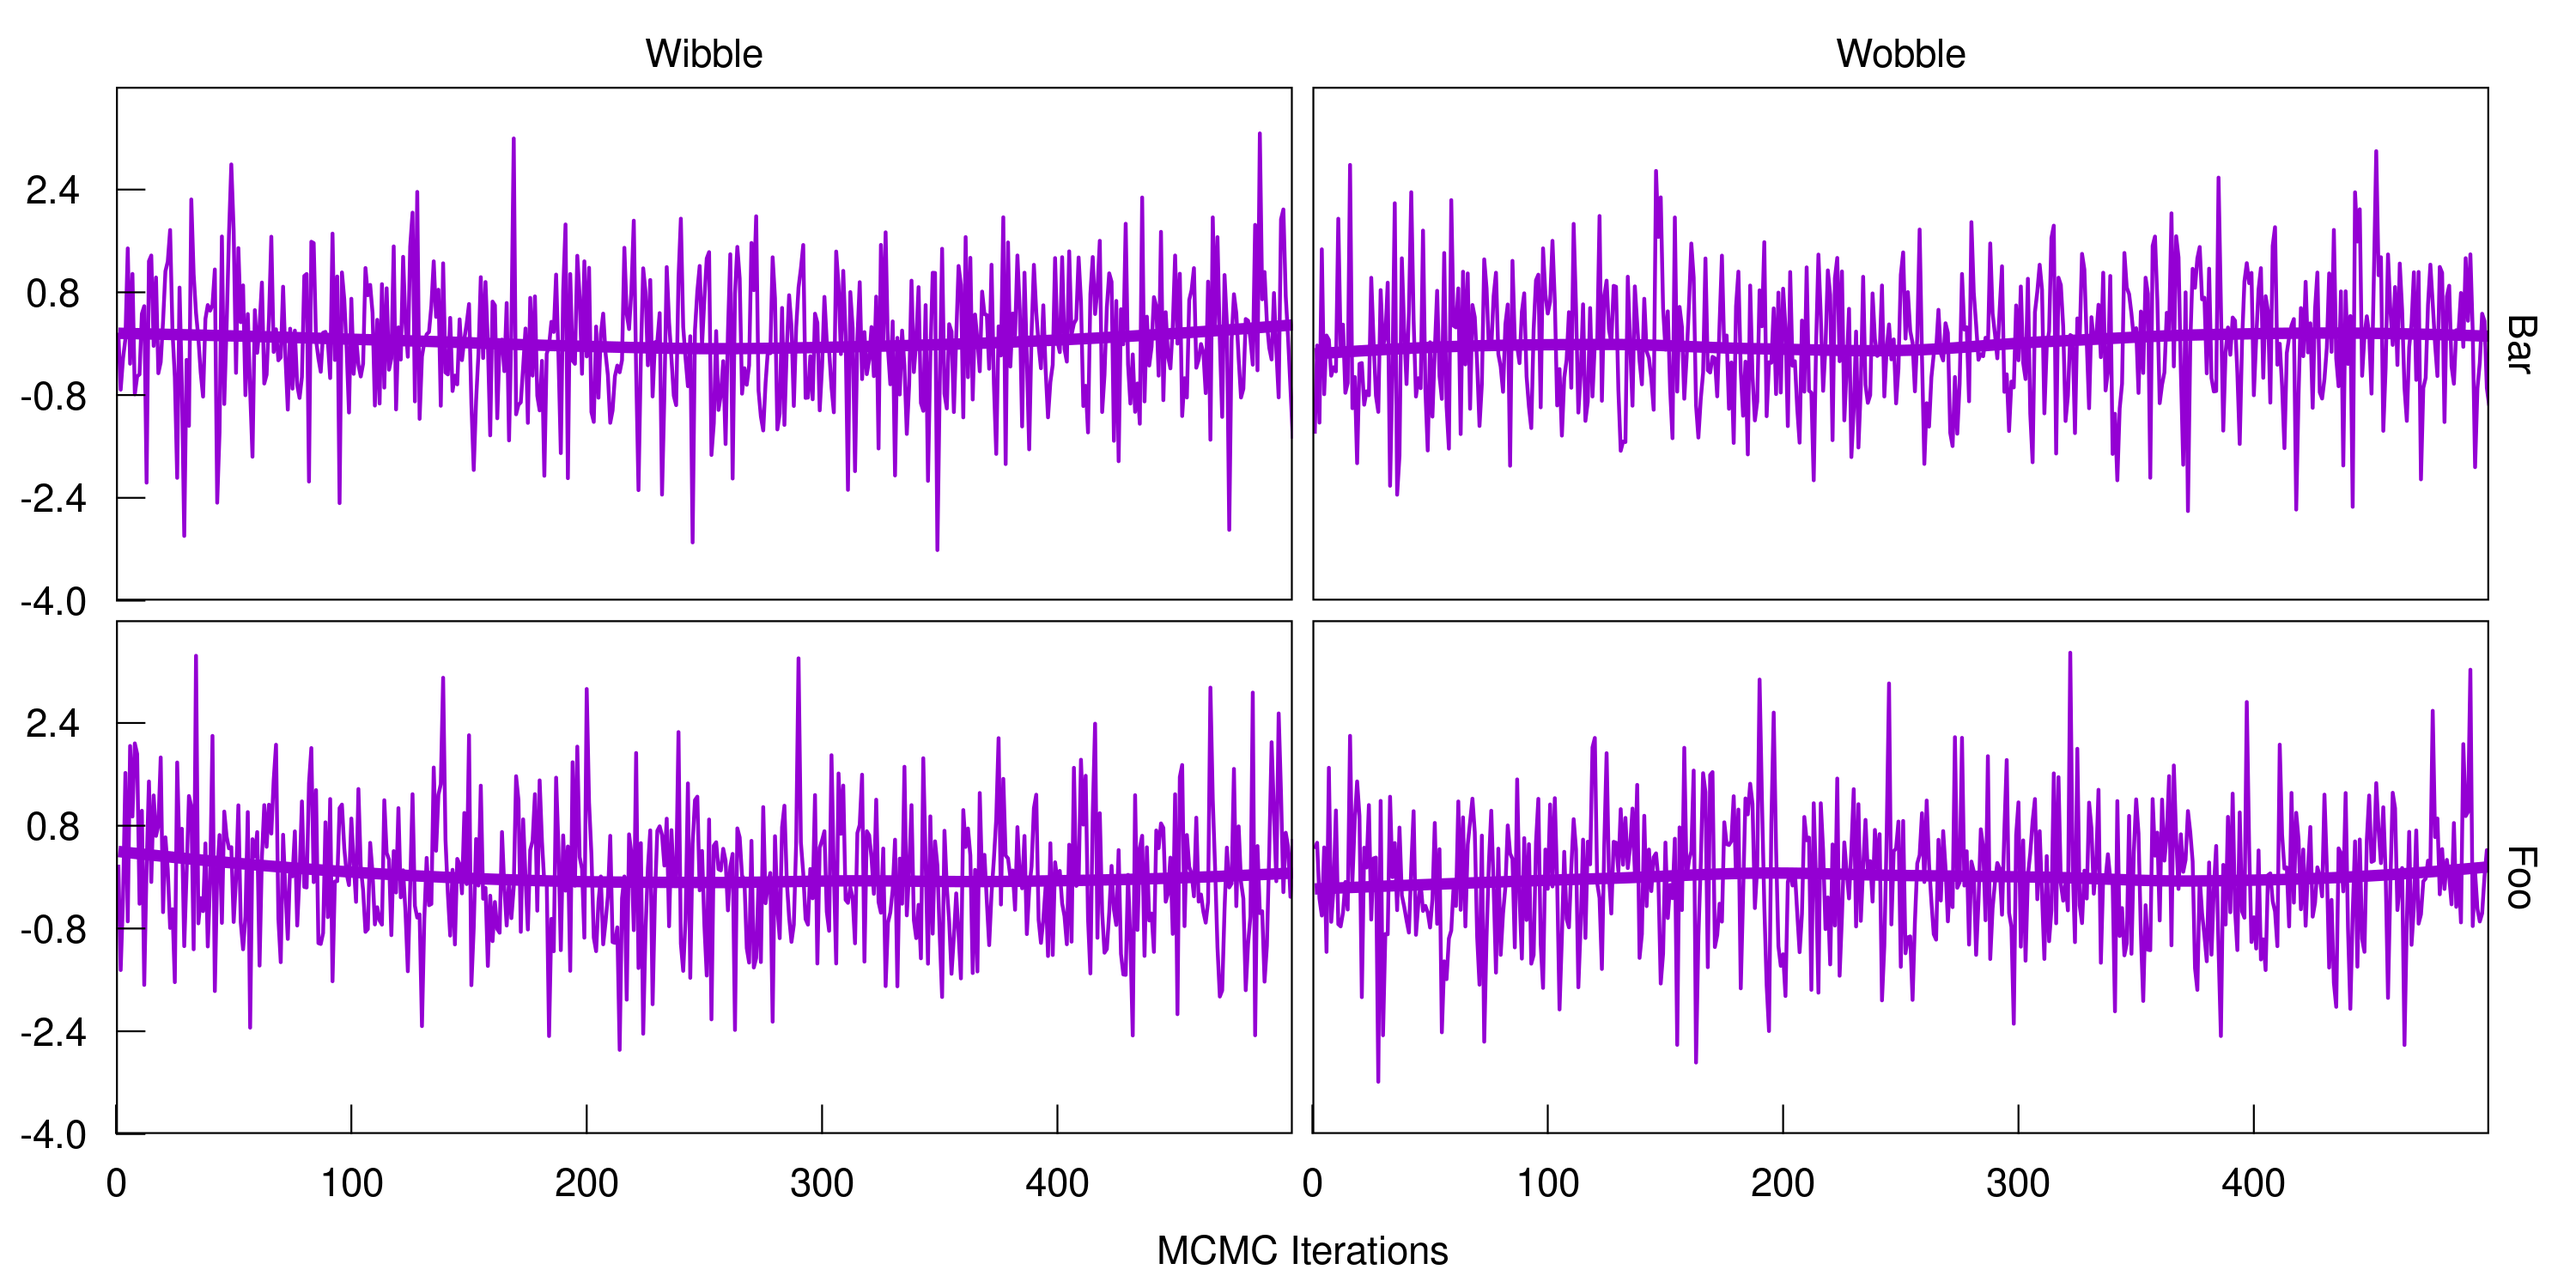
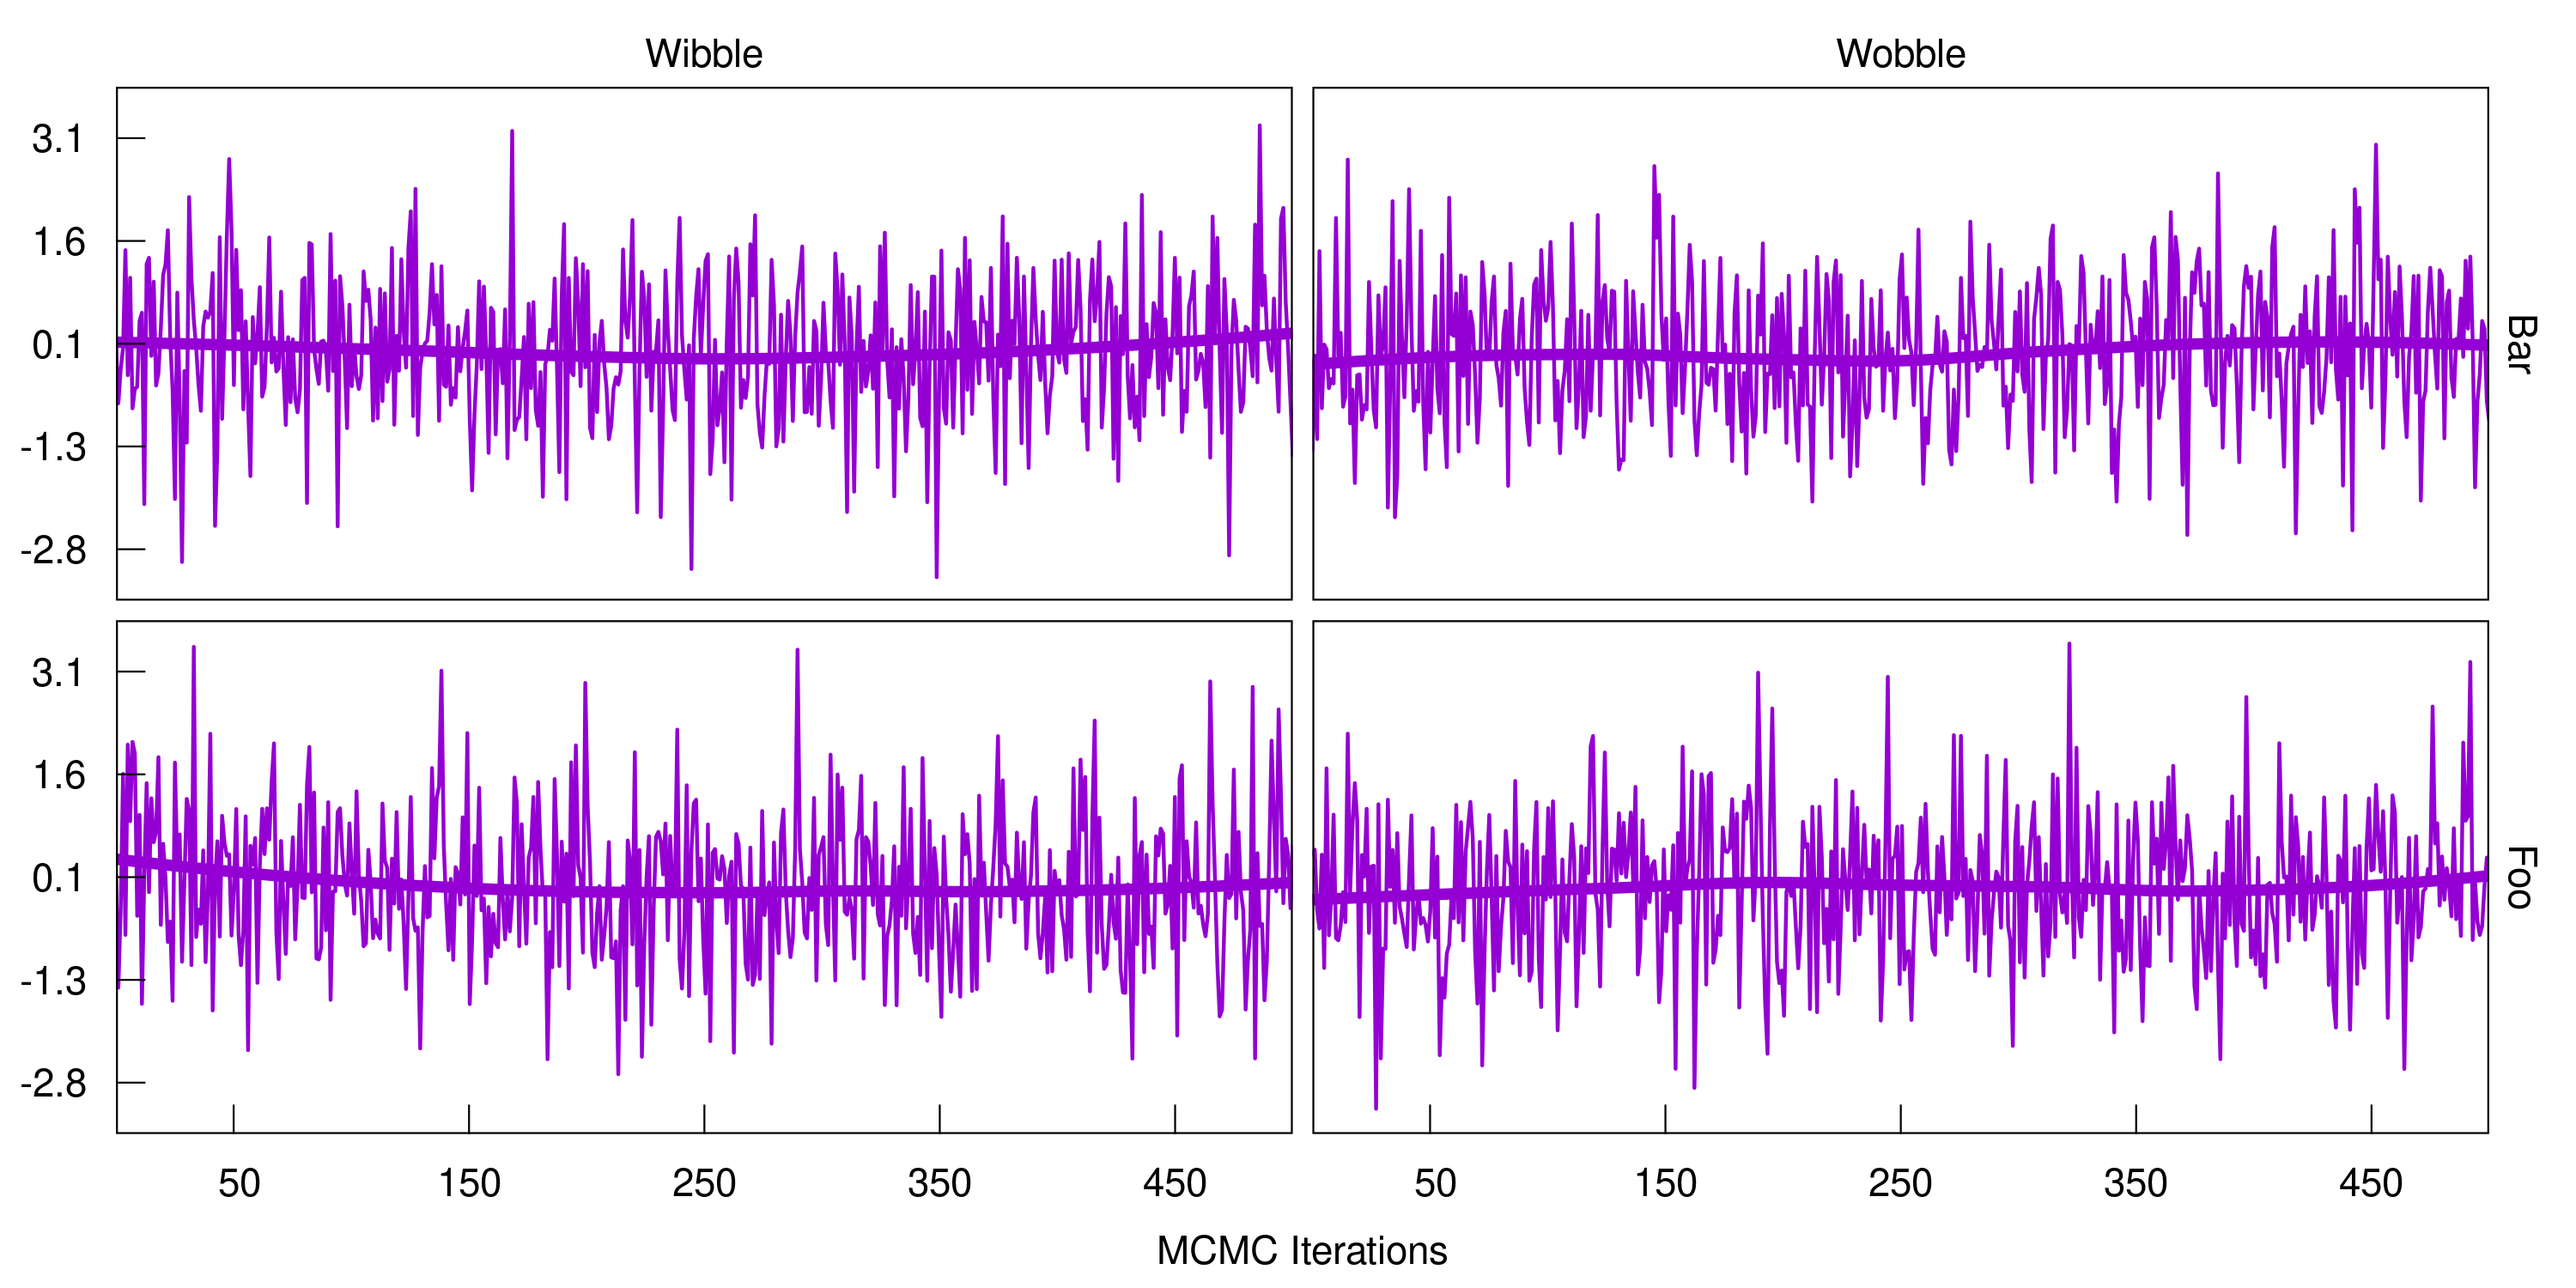
Improve breaks and labels

diff --git a/README.md b/README.md
@@ -24,9 +24,8 @@ devtools::install_github("hriebl/ggnuplot")
 
 ## Example
 
-ggnuplot features inward ticks, secondary axes, and labels on the plot
-corners. It also comes with gnuplot’s default color palette. This is
-what it looks like:
+ggnuplot features inward ticks and secondary axes. It also comes with
+gnuplot’s default color palette. This is what it looks like:
 
 ``` r
 library(ggplot2)
@@ -60,8 +59,8 @@ ggplot(df, aes(x, y)) +
   facet_grid(vars(cat1), vars(cat2)) +
   xlab("MCMC Iterations") +
   ylab(NULL) +
-  scale_x_gnuplot(index = 1:5, facet = TRUE, expand = c(0, 0)) +
-  scale_y_gnuplot(index = 1:5, facet = TRUE, expand = c(0, 0)) +
+  scale_x_gnuplot(expand = c(0, 0), sec.axis = waiver()) +
+  scale_y_gnuplot(sec.axis = waiver()) +
   theme_gnuplot()
 ```
 
